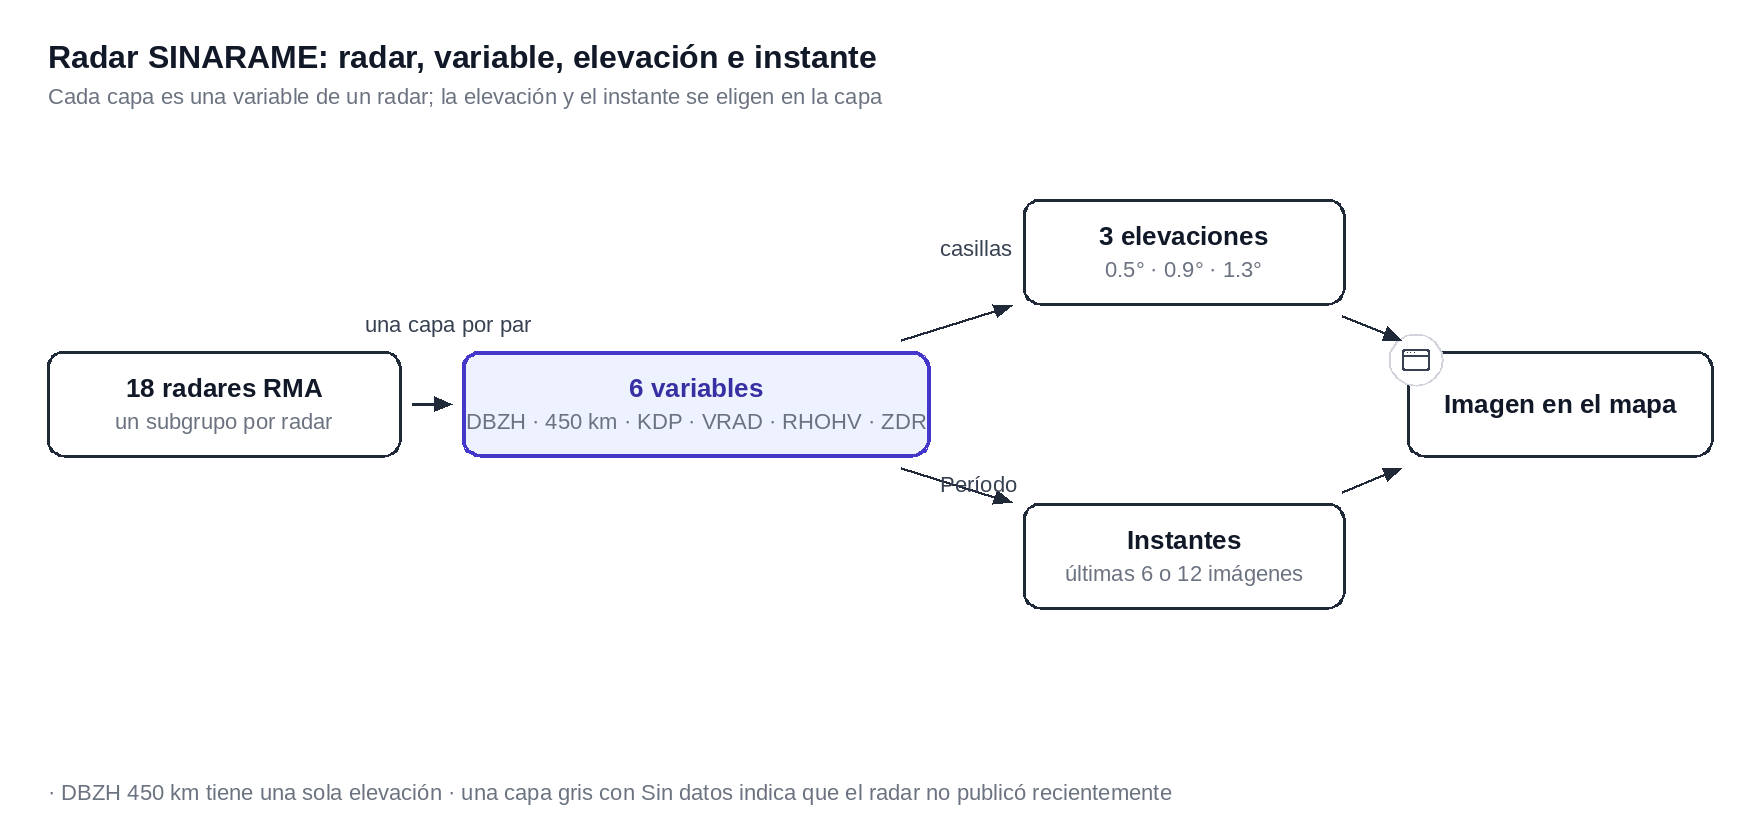
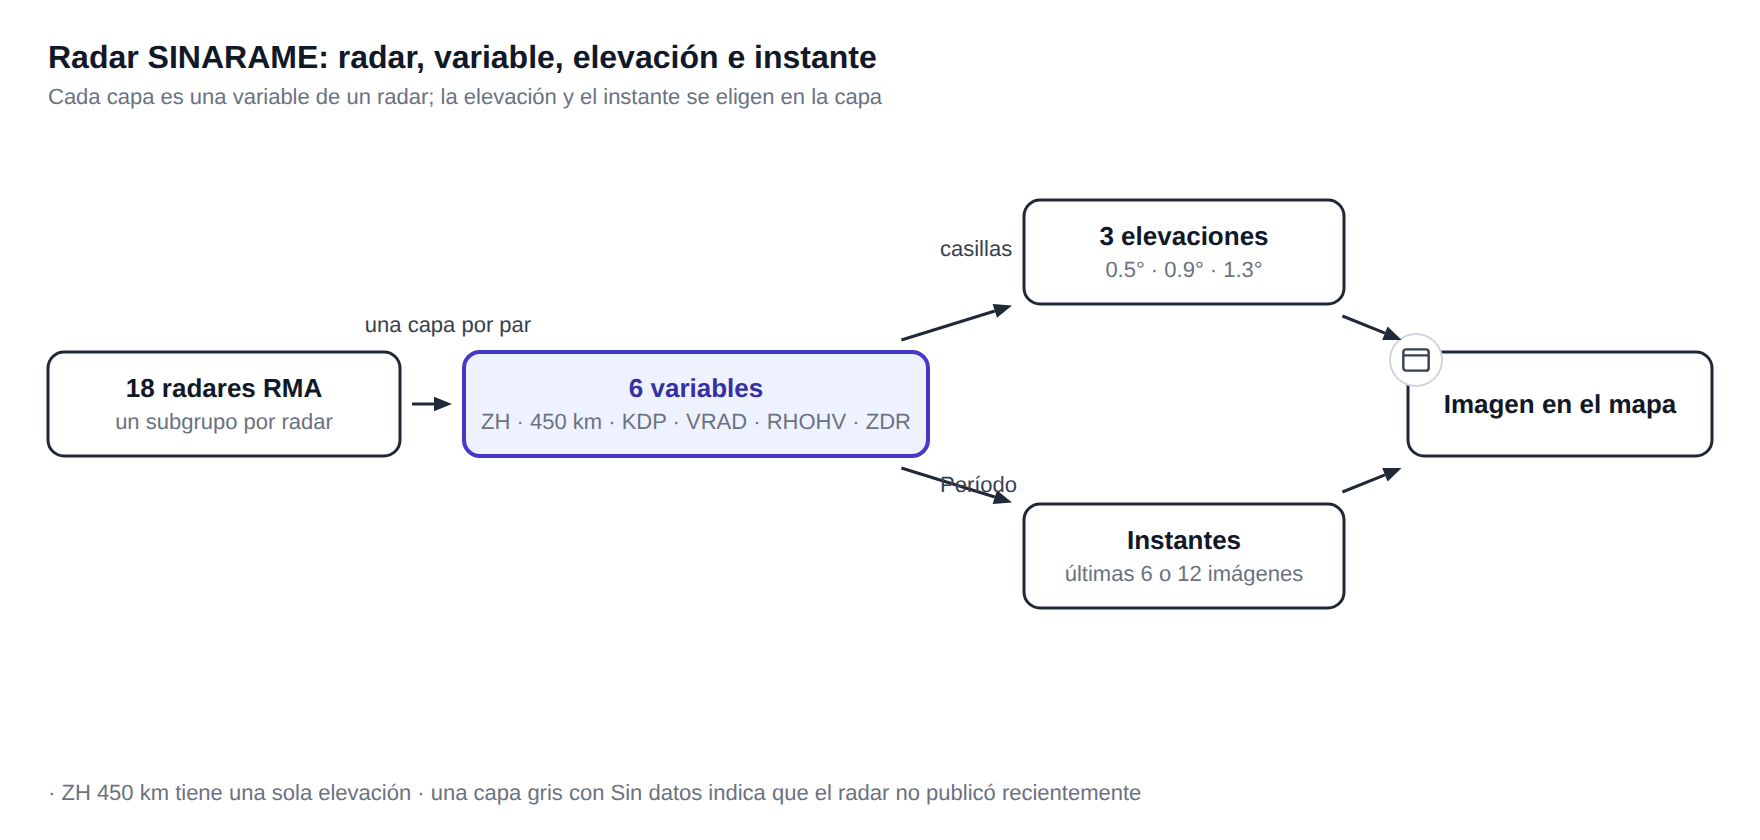
fix: rename DBZH radar product label to ZH
Only the visible label changes; the dbzh / dbzh-450km ids stay, since they
are the data-service path segment and the persisted layer keys.

Updates the manual, the radar-capas diagram and the radar catalog screenshot.
The screenshot's wait selector still used the pre-network-prefix layer id
(radar/RMA1/dbzh) and timed out; it now uses radar-sinarame/RMA1/dbzh.

diff --git a/src/app/config/layers/radar/config.ts b/src/app/config/layers/radar/config.ts
@@ -76,7 +76,7 @@ const RADAR_SCALES: Record<RadarProduct, LayerScale> = {
 
 /**
  * Nombre visible del producto cuando su id no se lee bien como etiqueta.
- * Sin entrada, se muestra el id tal cual (DBZH, VRAD, …).
+ * Sin entrada, se muestra el id tal cual (VRAD, KDP, …).
  */
 /**
  * Etiqueta visible de cada momento. El Record es total a propósito: los ids son
@@ -84,8 +84,8 @@ const RADAR_SCALES: Record<RadarProduct, LayerScale> = {
  * crudo y se mostraba en minúscula en el panel de capas.
  */
 const RADAR_PRODUCT_LABELS: Record<RadarProduct, string> = {
-  [RadarProduct.DBZH]: 'DBZH',
-  [RadarProduct.DBZH_450KM]: 'DBZH 450 km',
+  [RadarProduct.DBZH]: 'ZH',
+  [RadarProduct.DBZH_450KM]: 'ZH 450 km',
   [RadarProduct.KDP]: 'KDP',
   [RadarProduct.VRAD]: 'VRAD',
   [RadarProduct.RHOHV]: 'RHOHV',

diff --git a/scripts/docs-media/shots.config.ts b/scripts/docs-media/shots.config.ts
@@ -258,7 +258,7 @@ export const SHOTS: Shot[] = [
       { do: 'click', target: '[data-testid="layers-group-radar"] mat-expansion-panel-header', pauseMs: 900 },
       { do: 'click', target: '[data-testid="layers-subgroup-rma1"] mat-expansion-panel-header', pauseMs: 900 },
     ],
-    waitFor: '[data-testid="layers-row-radar/RMA1/dbzh"]', clip: PANEL,
+    waitFor: '[data-testid="layers-row-radar-sinarame/RMA1/dbzh"]', clip: PANEL,
   },
   {
     id: '04-2-radar-mapa', kind: 'shot', output: 'docs/imgs/manual/04-2-radar-mapa.png', viewport: SHOT, route: '/',

diff --git a/docs/manual/productos/radar.md b/docs/manual/productos/radar.md
@@ -36,9 +36,9 @@ Aparecen a continuación de los RMA, nombrados por su ubicación.
 | INTA Anguil | Anguil, La Pampa |
 | INTA Pergamino | Pergamino, Buenos Aires |
 
-Miden lo mismo que los RMA y se usan igual. Publican cuatro variables — DBZH, ZDR, RHOHV y KDP —
-y no tienen DBZH 450 km ni VRAD. No todas están disponibles en los tres equipos: Pergamino hoy
-sólo publica DBZH.
+Miden lo mismo que los RMA y se usan igual. Publican cuatro variables — ZH, ZDR, RHOHV y KDP —
+y no tienen ZH 450 km ni VRAD. No todas están disponibles en los tres equipos: Pergamino hoy
+sólo publica ZH.
 
 ## Las variables
 
@@ -46,21 +46,21 @@ Aparecen en este orden dentro de cada radar. Los del INTA publican las cuatro ma
 
 | Capa | Variable | Unidad | Rango de la escala | INTA |
 |---|---|---|---|---|
-| DBZH | Reflectividad horizontal | dBZ | -18 a 76.5 | sí |
-| DBZH 450 km | Reflectividad, barrido de largo alcance | dBZ | -18 a 76.5 | — |
+| ZH | Reflectividad horizontal | dBZ | -18 a 76.5 | sí |
+| ZH 450 km | Reflectividad, barrido de largo alcance | dBZ | -18 a 76.5 | — |
 | KDP | Fase diferencial específica | °/km | -1 a 6 | sí |
 | VRAD | Velocidad radial | m/s | -40 a 40 | — |
 | RHOHV | Coeficiente de correlación | ρhv | 0.225 a 1.048 | sí |
 | ZDR | Reflectividad diferencial | dB | -3 a 7 | sí |
 
-DBZH 450 km cubre unos 450 km en lugar de 240, con menos resolución. Es la única con una sola
+ZH 450 km cubre unos 450 km en lugar de 240, con menos resolución. Es la única con una sola
 elevación.
 
 ## Las elevaciones
 
 Cada capa tiene tres elevaciones: 0.5°, 0.9° y 1.3°, en las dos redes. Aparecen como casillas en la fila de la
 capa. Sólo la de 0.5° viene marcada. Podés marcar varias a la vez, y cada elevación tiene su
-propia opacidad. DBZH 450 km tiene únicamente la de 0.5°.
+propia opacidad. ZH 450 km tiene únicamente la de 0.5°.
 
 ## Tiempo y animación
 

diff --git a/docs/manual/glosario.md b/docs/manual/glosario.md
@@ -97,8 +97,8 @@ Canal 2, 9 y 13
 FED, TOE, MFA
 :   Las tres capas de GLM, con escala logarítmica.
 
-DBZH, KDP, VRAD, RHOHV, ZDR
-:   Las variables de cada radar. DBZH 450 km es el barrido de largo alcance.
+ZH, KDP, VRAD, RHOHV, ZDR
+:   Las variables de cada radar. ZH 450 km es el barrido de largo alcance.
 
 Elevación
 :   Cada ángulo de barrido de un radar: 0.5°, 0.9° y 1.3°, como casillas en la capa.
